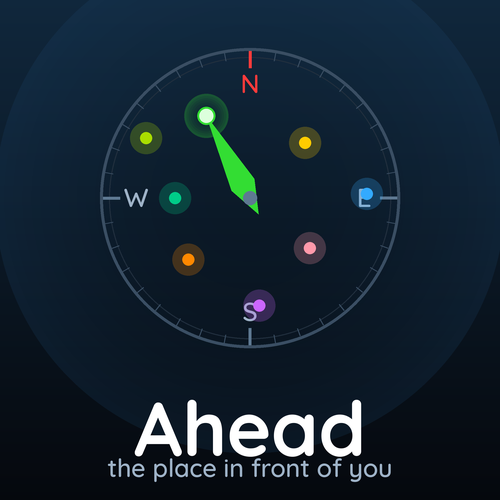
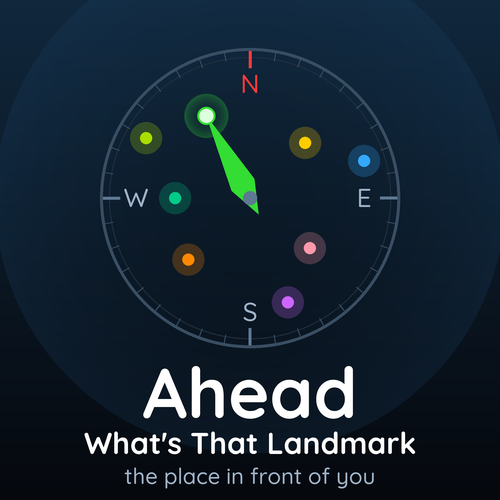
Prepare the 1.0.0 store release
- CI: robust CIQ_DEVELOPER_KEY decoding (whitespace, CRLF, PEM) with a
  check that it is a DER private key; tag builds fail without the secret
  instead of signing the store package with a throwaway key.
- The compass debug readout is off by default and no longer offered in
  the phone settings (it was on for every new install).
- store/STORE.md: listing texts for "Ahead: What's That Landmark",
  privacy (position sent to Photon) and the OpenStreetMap credit.
- Cover: the full store name, dots moved off the E and S letters, and
  a --font option for the variable Quicksand font.

diff --git a/scripts/make_cover.py b/scripts/make_cover.py
@@ -5,8 +5,13 @@ Echoes the app's own UI: a compass ring, nearby places as colored radar dots,
 and the green arrow pointing at the place you're facing. Rendered at 4x and
 downsampled with LANCZOS for smooth edges. Pure Pillow, no network.
 
-    python3 scripts/make_cover.py            # -> store/cover_500.png
+    python3 scripts/make_cover.py [--font Quicksand.ttf]   # -> store/cover_500.png
+
+--font takes the variable Quicksand TTF (OFL,
+https://github.com/google/fonts/raw/main/ofl/quicksand/Quicksand%5Bwght%5D.ttf);
+without it the static Quicksand files from /usr/share/fonts are used.
 """
+import argparse
 import math
 import os
 from PIL import Image, ImageDraw, ImageFont
@@ -48,7 +53,19 @@ def polar(bearing_deg, dist):
     return (CX + dist * math.sin(th), CY - dist * math.cos(th))
 
 
+def qfont(path, weight, px):
+    """Quicksand at px: the variable font set to weight, or the static file."""
+    if path:
+        f = ImageFont.truetype(path, px)
+        f.set_variation_by_name(weight)
+        return f
+    return ImageFont.truetype(F_TITLE if weight == "Bold" else F_TAG, px)
+
+
 def main():
+    ap = argparse.ArgumentParser()
+    ap.add_argument("--font", help="variable Quicksand TTF")
+    args = ap.parse_args()
     img = Image.new("RGB", (S, S), (5, 8, 13))
     # Vertical gradient: deep blue at the top fading to near-black at the bottom.
     top, bot = (0x10, 0x27, 0x3C), (0x05, 0x08, 0x0D)
@@ -84,7 +101,7 @@ def main():
         d.line([p1, p2], fill=col, width=(3 * SS if major else 1 * SS))
 
     # Cardinal letters.
-    cf = ImageFont.truetype(F_CARD, 26 * SS)
+    cf = qfont(args.font, "Medium", 26 * SS)
     for b, label, col in [(0, "N", RED), (90, "E", TAGCOL),
                           (180, "S", TAGCOL), (270, "W", TAGCOL)]:
         px, py = polar(b, R - 36 * SS)
@@ -93,8 +110,8 @@ def main():
                label, font=cf, fill=col)
 
     # Nearby places as radar dots (bearing, distance-fraction, colour).
-    dots = [(45, 0.52, GOLD), (88, 0.78, SKY), (130, 0.52, ROSE),
-            (175, 0.72, PURPLE), (225, 0.58, ORANGE), (270, 0.50, TEAL),
+    dots = [(45, 0.52, GOLD), (72, 0.80, SKY), (130, 0.52, ROSE),
+            (160, 0.74, PURPLE), (225, 0.58, ORANGE), (270, 0.50, TEAL),
             (300, 0.80, LIME)]
     for b, frac, col in dots:
         px, py = polar(b, R * frac)
@@ -143,16 +160,13 @@ def main():
     hr = 7 * SS
     d.ellipse([CX - hr, CY - hr, CX + hr, CY + hr], fill=RING_HI)
 
-    # Title + tagline.
-    tf = ImageFont.truetype(F_TITLE, 76 * SS)
-    title = "Ahead"
-    tb = d.textbbox((0, 0), title, font=tf)
-    d.text((S / 2 - (tb[2] - tb[0]) / 2 - tb[0], 380 * SS), title, font=tf, fill=WHITE)
-
-    gf = ImageFont.truetype(F_TAG, 25 * SS)
-    tag = "the place in front of you"
-    tb = d.textbbox((0, 0), tag, font=gf)
-    d.text((S / 2 - (tb[2] - tb[0]) / 2 - tb[0], 452 * SS), tag, font=gf, fill=TAGCOL)
+    # Title, the rest of the store name ("Ahead: What's That Landmark") and tagline,
+    # centred on baselines like the Zenith cover.
+    for text, font, y, col in [("Ahead", qfont(args.font, "Bold", 70 * SS), 418, WHITE),
+                               ("What's That Landmark", qfont(args.font, "Bold", 30 * SS), 454, WHITE),
+                               ("the place in front of you", qfont(args.font, "Medium", 22 * SS), 484, TAGCOL)]:
+        w = d.textlength(text, font=font)
+        d.text(((S - w) / 2, y * SS), text, font=font, fill=col, anchor="ls")
 
     out_dir = "store"
     os.makedirs(out_dir, exist_ok=True)

diff --git a/store/STORE.md b/store/STORE.md
@@ -1,0 +1,121 @@
+# Ahead – Connect IQ Store listing
+
+Texts for the Connect IQ Store (English). Free app. Replace the `[…]` placeholders before publishing.
+
+---
+
+## App name
+
+Ahead: What's That Landmark
+
+(On the watch the app is called just "Ahead"; "Ahead" alone is hard to find in the store,
+hence the descriptor.)
+
+## Short description / tagline
+
+Point your wrist at a building, castle or viewpoint and see what it is and how far away.
+
+## Category
+
+Watch App, store category **Navigation** (or Travel, if offered)
+
+## Description
+
+What's that place I'm looking at? Ahead names the landmark in front of you. Point your wrist,
+and the watch shows the place you are facing with its name, distance and type. Turn around and
+it updates to whatever you face now.
+
+WHAT YOU SEE
+• The place in front of you, large, with a direction arrow that turns green when you point
+  straight at it.
+• Nearby places as coloured dots on a compass ring.
+• A detail page with the type, distance and bearing, street address and coordinates, and a
+  link that opens the place on your phone.
+• A list of everything nearby, sorted by distance, ahead of you or all around (360°).
+• A glance that shows the place in front of you right from the watch face.
+
+PLACES
+Viewpoints and attractions, parks and nature, monuments and memorials, castles and forts,
+ruins and archaeological sites, places of worship, museums and galleries, theatres and
+cinemas, restaurants, cafés and bars. Turn each category on or off on the watch or in the
+phone settings. A one-off filter shows just one category (for example only restaurants)
+without changing your settings.
+
+SMART RANGE
+In a city Ahead looks only a few dozen metres around you; in the countryside the search
+widens up to 5 km until it finds enough places.
+
+LOCK A TARGET
+Pick a place from the list and the arrow keeps pointing at it as you walk, until you clear
+the lock.
+
+REQUIREMENTS
+• A Garmin watch with GPS and a compass (magnetometer).
+• A paired phone with Garmin Connect and an internet connection. Places are looked up online.
+
+## How to use (short guide for the description or the support page)
+
+1. Start Ahead outdoors and wait for GPS ("Acquiring GPS"), or tap "Use last known" to start
+   right away from your last position.
+2. Point the watch where you are looking. The place in front of you is shown large.
+3. Tap the screen (or press Start) for the detail page. Start on the detail page locks the
+   place as your target.
+4. Swipe up for the list of nearby places, swipe down for a one-off category filter, and
+   swipe in from the right edge for the menu (categories, refresh, compass calibration).
+
+## What's new
+
+### 1.0.0
+First release.
+
+## Keywords / search terms
+
+poi, landmark, sightseeing, travel, tourist, castle, museum, viewpoint, monument, restaurant,
+compass, what is that, nearby, city guide, openstreetmap
+
+## FAQ (support page)
+
+**The arrow points the wrong way.**
+Calibrate the compass: menu → Calibrate compass, then draw a figure eight with your arm. If it
+stays wrong, calibrate the compass in the watch settings (Sensors → Compass), away from metal.
+
+**It says "no phone" or shows an error.**
+Ahead needs a connection to your phone with Garmin Connect running and internet access.
+
+**I see nothing nearby.**
+Check that some categories are turned on (menu → Filters). In remote places there may simply
+be no mapped places within 5 km.
+
+**Where does the data come from?**
+From OpenStreetMap, the free map edited by volunteers. If a place is missing or wrong, you can
+fix it on openstreetmap.org.
+
+## Privacy
+
+Ahead does not collect or store any data on a server of its own. To find places, the watch
+sends your approximate position and the selected categories (through the paired phone) to the
+public Photon search service by komoot (photon.komoot.io). The developer does not receive
+your position. Category settings are stored only on the watch and in your Garmin Connect app.
+
+## Credits (add to the description – required by the OpenStreetMap licence)
+
+Map data © OpenStreetMap contributors, available under the Open Database License (ODbL),
+openstreetmap.org/copyright. Place search: Photon by komoot. The credit is also shown in the
+app (menu → Filters → Map data).
+
+## Store assets
+
+- `store/cover_500.png` (500×500), generated by `scripts/make_cover.py --font Quicksand.ttf`.
+- `store/screenshot_venux1_448x486.png`, generated by `scripts/make_screenshot.py`.
+
+## Publishing notes
+
+- Free app. Upload `Ahead.iq` as a **new app** (the manifest ID is the public listing's ID; the
+  old ID belongs to the beta listing). Do not tick "Beta".
+- The store package `Ahead.iq` is built by GitHub Actions for tags `v*`
+  (`git tag v1.0.0 && git push --tags`), artifact `Ahead-store-package`. Tag builds fail
+  without the `CIQ_DEVELOPER_KEY` secret, so every release is signed with the same key.
+- Photon's public server is meant for moderate use. If the app gets many users, consider a
+  self-hosted Photon instance (`PHOTON_URL` in `source/PoiModel.mc`).
+- Support contact: garmin.dev@leisoft.cz
+- Privacy policy URL (if the store asks for one): […]

diff --git a/README.md b/README.md
@@ -175,9 +175,10 @@ The launcher icon can be regenerated with `python3 scripts/make_icon.py`.
 Via Garmin Connect Mobile (or Connect IQ Store app) → Ahead →
 Settings: max places and the category toggles. (POIs auto-expand 200 m→5 km
 and need no radius setting.) Category toggles changed on the watch are
-persisted and synced back. **Show compass debug** prints the live magnetometer
-readout (`m <min>-<max> r<swing> s<spread>`) at the top of the main screen —
-a beta diagnostic for tuning the calibration check; turn it off for normal use.
+persisted and synced back. The developer-only `debugCompass` property (off,
+not shown in the settings) prints the live magnetometer readout
+(`m <min>-<max> r<swing> s<spread>`) at the top of the main screen — a
+diagnostic for tuning the calibration check.
 
 ## CI (GitHub Actions)
 
@@ -185,6 +186,10 @@ a beta diagnostic for tuning the calibration check; turn it off for normal use.
 `Ahead.prg` as a workflow artifact (download it from the run page and
 sideload it). On `v*` tags it additionally exports the store package
 (`Ahead.iq`).
+
+Store listing (name "Ahead: What's That Landmark", texts, privacy, OSM
+credit): `store/STORE.md`. Tag (release) builds fail without the
+`CIQ_DEVELOPER_KEY` secret, so every release is signed with the same key.
 
 It runs inside the community-maintained
 [`ghcr.io/matco/connectiq-tester`](https://github.com/matco/connectiq-tester)
